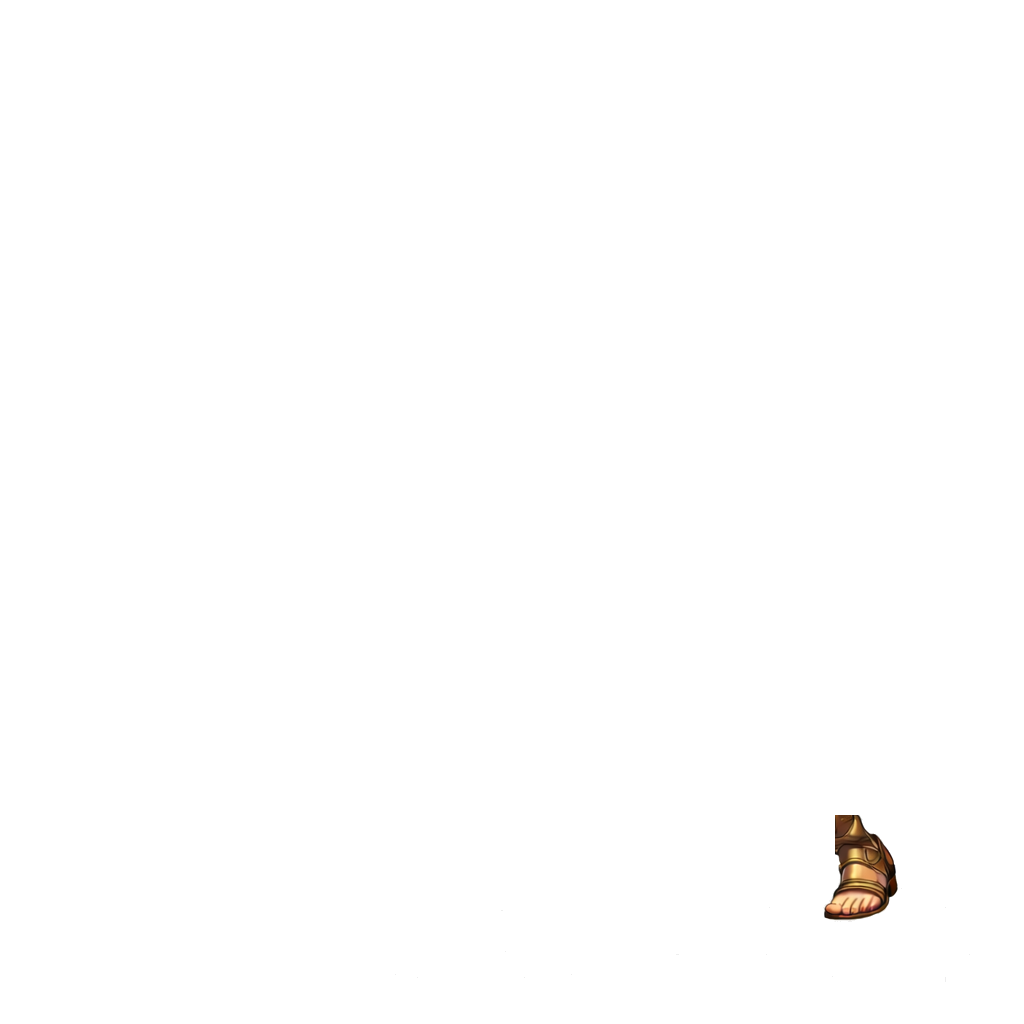
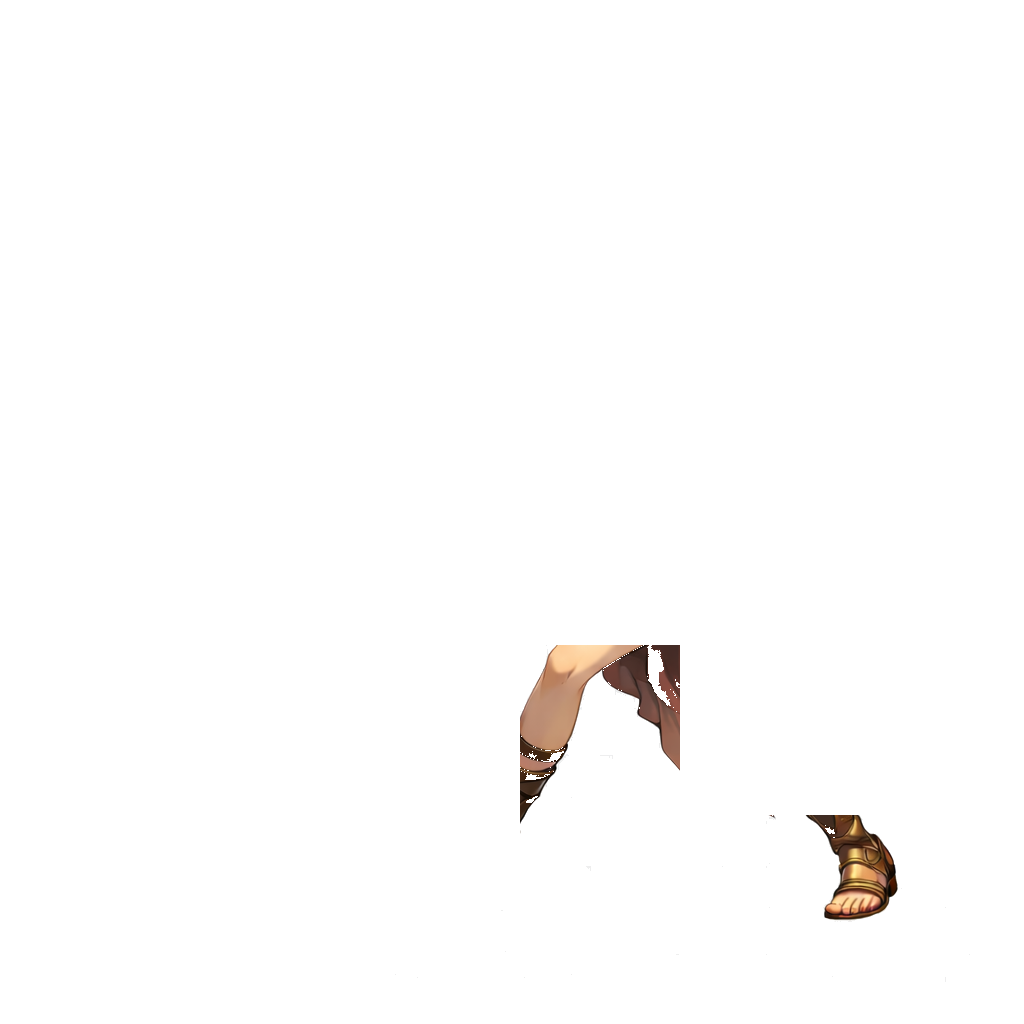
auto-commit for c3b2dfa3-1dc6-4ec2-9755-add046a0f23f

Changed region(s): [[0.5, 0.625, 0.6875, 0.8125], [0.7812, 0.7812, 0.8125, 0.8125]]

diff --git a/frontend/app/hero-viewer.tsx b/frontend/app/hero-viewer.tsx
@@ -3,6 +3,8 @@ import { View, Text, StyleSheet, Pressable, ActivityIndicator, useWindowDimensio
 import { useLocalSearchParams, useRouter } from 'expo-router';
 import { apiCall } from '../utils/api';
 import HeroIdleAnimation from '../components/ui/HeroIdleAnimation';
+import HeroHopliteIdle from '../components/ui/HeroHopliteIdle';
+import { isHopliteHero } from '../components/ui/HeroPortrait';
 import StarDisplay from '../components/ui/StarDisplay';
 import TranscendenceStars from '../components/ui/TranscendenceStars';
 import { RARITY, ELEMENTS } from '../constants/theme';
@@ -46,21 +48,25 @@ export default function HeroViewerScreen() {
   return (
     <Pressable style={s.root} onPress={() => router.back()}>
       <View style={s.scene}>
-        <HeroIdleAnimation
-          imageUri={imgUri || undefined}
-          stars={stars}
-          size={imgSize}
-          color={elemCol}
-          borderRadius={0}
-        >
-          {!imgUri && (
-            <View style={[s.ph, { width: imgSize, height: imgSize, borderColor: rarCol }]}>
-              <Text style={[s.phTxt, { color: elemCol, fontSize: imgSize * 0.35 }]}>
-                {(hero.name || hero.hero_name || '?')[0]}
-              </Text>
-            </View>
-          )}
-        </HeroIdleAnimation>
+        {isHopliteHero(hero.name || hero.hero_name) ? (
+          <HeroHopliteIdle size={imgSize} animated />
+        ) : (
+          <HeroIdleAnimation
+            imageUri={imgUri || undefined}
+            stars={stars}
+            size={imgSize}
+            color={elemCol}
+            borderRadius={0}
+          >
+            {!imgUri && (
+              <View style={[s.ph, { width: imgSize, height: imgSize, borderColor: rarCol }]}>
+                <Text style={[s.phTxt, { color: elemCol, fontSize: imgSize * 0.35 }]}>
+                  {(hero.name || hero.hero_name || '?')[0]}
+                </Text>
+              </View>
+            )}
+          </HeroIdleAnimation>
+        )}
 
         {/* Info overlay at bottom */}
         <View style={s.info}>

diff --git a/frontend/components/ui/HeroPortrait.tsx b/frontend/components/ui/HeroPortrait.tsx
@@ -1,0 +1,64 @@
+/**
+ * HeroPortrait
+ * ------------
+ * Wrapper intelligente che mostra il rig animato per eroi specifici,
+ * oppure fa fallback a un'Image normale.
+ *
+ * Mappa nome eroe → rig component. Per ora solo Greek Hoplite (mappato a "Athena").
+ */
+import React from 'react';
+import { View, Image, ImageStyle, StyleProp, ViewStyle } from 'react-native';
+import HeroHopliteIdle from './HeroHopliteIdle';
+
+// Nomi eroe che usano il rig Greek Hoplite (case-insensitive)
+const HOPLITE_HEROES = ['athena', 'hoplite', 'greek hoplite', 'spartana'];
+
+type Props = {
+  heroName?: string;
+  imageUri?: string | number | null;
+  size: number;
+  animated?: boolean;
+  /** stile applicato al fallback Image */
+  style?: StyleProp<ImageStyle>;
+  /** contenitore esterno (es. bordi, background) */
+  containerStyle?: StyleProp<ViewStyle>;
+  /** fallback quando non c'è immagine */
+  fallback?: React.ReactNode;
+};
+
+function isHopliteHero(name?: string): boolean {
+  if (!name) return false;
+  const n = name.toLowerCase().trim();
+  return HOPLITE_HEROES.some(k => n.includes(k));
+}
+
+export default function HeroPortrait({
+  heroName,
+  imageUri,
+  size,
+  animated = true,
+  style,
+  containerStyle,
+  fallback,
+}: Props) {
+  if (isHopliteHero(heroName)) {
+    return (
+      <View style={[{ width: size, height: size, overflow: 'hidden' }, containerStyle]}>
+        <HeroHopliteIdle size={size} animated={animated} />
+      </View>
+    );
+  }
+
+  if (!imageUri) {
+    return <View style={[{ width: size, height: size }, containerStyle]}>{fallback}</View>;
+  }
+
+  const source = typeof imageUri === 'string' ? { uri: imageUri } : imageUri;
+  return (
+    <View style={[{ width: size, height: size }, containerStyle]}>
+      <Image source={source} style={[{ width: size, height: size }, style]} resizeMode="cover" />
+    </View>
+  );
+}
+
+export { isHopliteHero };

diff --git a/frontend/app/(tabs)/heroes.tsx b/frontend/app/(tabs)/heroes.tsx
@@ -9,6 +9,8 @@ import Animated, { FadeInDown, FadeIn } from 'react-native-reanimated';
 import { apiCall } from '../../utils/api';
 import { useAuth } from '../../context/AuthContext';
 import AnimatedHeroPortrait from '../../components/AnimatedHeroPortrait';
+import HeroHopliteIdle from '../../components/ui/HeroHopliteIdle';
+import { isHopliteHero } from '../../components/ui/HeroPortrait';
 import ScreenHeader from '../../components/ui/ScreenHeader';
 import StarDisplay from '../../components/ui/StarDisplay';
 import TranscendenceStars from '../../components/ui/TranscendenceStars';
@@ -229,7 +231,15 @@ export default function HeroesTab() {
               colors={['rgba(20,20,60,0.9)', 'rgba(10,10,40,0.95)']}
               style={[s.detail, { borderColor: RARITY.colors[Math.min(selected.stars || selected.hero_rarity || 1, 6)] || '#888' }]}
             >
-              {selected.hero_image ? (
+              {isHopliteHero(selected.hero_name) ? (
+                <View style={[s.detImgWrap, { alignItems: 'center', justifyContent: 'center' }]}>
+                  <HeroHopliteIdle size={90} animated />
+                  <LinearGradient
+                    colors={['transparent', 'rgba(10,10,40,0.8)']}
+                    style={s.detImgOverlay}
+                  />
+                </View>
+              ) : selected.hero_image ? (
                 <View style={s.detImgWrap}>
                   <Image source={{ uri: selected.hero_image }} style={s.detImg} resizeMode="cover" />
                   <LinearGradient

diff --git a/frontend/app/hero-detail.tsx b/frontend/app/hero-detail.tsx
@@ -11,6 +11,7 @@ import GradientButton from '../components/ui/GradientButton';
 import StarDisplay from '../components/ui/StarDisplay';
 import TranscendenceStars from '../components/ui/TranscendenceStars';
 import HeroIdleAnimation from '../components/ui/HeroIdleAnimation';
+import HeroPortrait, { isHopliteHero } from '../components/ui/HeroPortrait';
 import { COLORS, RARITY, ELEMENTS, CLASSES } from '../constants/theme';
 
 const STAT_LABELS: Record<string, string> = {
@@ -136,7 +137,11 @@ export default function HeroDetailScreen() {
           >
             <View style={s.heroTop}>
               <TouchableOpacity onPress={() => router.push({ pathname: '/hero-viewer', params: { heroId: params.id as string } })} activeOpacity={0.8}>
-                {data.image ? (
+                {isHopliteHero(data.name) ? (
+                  <View style={{ width: 80, height: 80, borderRadius: 10, overflow: 'hidden', borderWidth: 2, borderColor: col + '80', backgroundColor: col + '15' }}>
+                    <HeroPortrait heroName={data.name} size={80} animated />
+                  </View>
+                ) : data.image ? (
                   <HeroIdleAnimation imageUri={data.image} stars={stars} size={80} color={col} borderRadius={10} />
                 ) : (
                   <HeroIdleAnimation stars={stars} size={80} color={col}>

diff --git a/backend/scripts/split_hoplite_rig.py b/backend/scripts/split_hoplite_rig.py
@@ -30,7 +30,7 @@ px = im.load()
 # Il personaggio è posizionato verso destra-centro (spear estesa a sinistra)
 BBOX = {
     "hair":        (470, 55,  310, 360),   # pennacchio + capelli fluenti ✓
-    "head_helmet": (515, 100, 190, 150),   # elmo dorato + viso ✓
+    "head_helmet": (505, 130, 230, 180),   # elmo + viso (ampliato verso basso e lati) ✓
     "torso":       (515, 225, 250, 320),   # petto + addome + cintura (ampliato)
     "spear_arm":   (0,   315, 610, 150),   # braccio sinistro + lancia intera ✓
     "shield_arm":  (680, 340, 345, 475),   # braccio destro + scudo rotondo (esteso fino al bordo)
@@ -59,16 +59,40 @@ def in_bbox(x: int, y: int, bbox) -> bool:
 
 
 def is_hair_color(r: int, g: int, b: int) -> bool:
-    """Rileva rosso/bruno dei capelli e del pennacchio (distinguendoli dal dorato dell'elmo)."""
+    """Rileva rosso/bruno di capelli/pennacchio. Distingue da oro, pelle e pelle in ombra."""
     if r < 60:
         return False
     if r > 245 and g > 245 and b > 245:
-        return False  # highlight bianco puro
+        return False
+    if not (r > g and g > b):
+        return False
+    # pelle ha b alto (>135) o b/r alto (>0.58) anche in ombra
+    if b > 135:
+        return False
+    br_ratio = b / max(1, r)
+    if br_ratio >= 0.58:
+        return False
+    # oro elmo ha g molto vicino a r (r-g piccolo vs g-b grande).
+    # capelli: r-g abbastanza grande rispetto a g-b
+    rg = r - g
+    gb = g - b
+    return rg >= gb * 0.75 and rg >= 15
+
+
+def is_skirt_cloth(r: int, g: int, b: int) -> bool:
+    """Rileva il tessuto rosso-arancio della gonna. Distingue da pelle e bronzo dei sandali/greave."""
+    if r < 50:
+        return False
+    if not (r > g and g >= b):
+        return False
+    # gonna satura: g/r basso (<0.55), b basso (<120)
     gr = g / max(1, r)
-    br = b / max(1, r)
-    # capelli/pennacchio: dominante rosso, g/r basso (<0.70), b/r molto basso (<0.62)
-    # oro elmo ha g/r ~0.75-0.85, pelle g/r ~0.82-0.92
-    return gr < 0.70 and br < 0.62
+    if gr >= 0.55:
+        return False  # oro/bronzo/pelle hanno g/r alto
+    if b > 120:
+        return False  # pelle ha b alto
+    # saturazione alta (arancione acceso)
+    return True
 
 
 def dist_to_bbox(x: int, y: int, bbox) -> float:
@@ -102,12 +126,34 @@ def main():
                 salvaged += 1
                 continue
 
-            if "hair" in candidates and len(candidates) > 1:
+            if "hair" in candidates and "head_helmet" in candidates:
+                # Conflitto hair vs head_helmet: colore dominante decide
+                if is_hair_color(r, g, b):
+                    winner = "hair"
+                else:
+                    # Non-hair in zona testa → head_helmet (elmo/viso)
+                    non_hair = [n for n in candidates if n != "hair"]
+                    winner = max(non_hair, key=lambda n: PRIORITY[n])
+            elif "hair" in candidates and len(candidates) > 1:
+                # Altri overlap con hair: solo colore decide
                 if is_hair_color(r, g, b):
                     winner = "hair"
                 else:
                     non_hair = [n for n in candidates if n != "hair"]
                     winner = max(non_hair, key=lambda n: PRIORITY[n])
+            elif "legs" in candidates and "skirt" in candidates:
+                # Conflitto legs vs skirt: colore dominante decide
+                if is_skirt_cloth(r, g, b):
+                    winner = "skirt"
+                else:
+                    # Pelle/bronzo/sandalo → gambe
+                    winner = "legs"
+                    # se anche torso/shield_arm nell'overlap, mantieni priorità per quelli
+                    other = [n for n in candidates if n not in ("legs", "skirt")]
+                    if other:
+                        top_other = max(other, key=lambda n: PRIORITY[n])
+                        if PRIORITY[top_other] > PRIORITY["legs"]:
+                            winner = top_other
             else:
                 winner = max(candidates, key=lambda n: PRIORITY[n])
 

diff --git a/test_result.md b/test_result.md
@@ -418,3 +418,5 @@ agent_communication:
     message: "NEW ENDPOINTS TESTING COMPLETE: All 13 new backend systems tested and working correctly. VIP System, Friends System, Multi-Server System, Shop System, Mail System, Battle Pass System, Rankings System, Cosmetics/Aura System, Territory Conquest System, Plaza Chat System, Raid System, Exclusive Items System, and Bot System all return 200 with valid JSON data. Minor note: Some endpoint URLs in review request differ from actual implementation (e.g., /api/vip vs /api/vip/status, /api/cosmetics vs /api/cosmetics/auras, /api/territory/map vs /api/territories, /api/exclusive-items vs /api/exclusive/items) but functionality is complete and working."
   - agent: "testing"
     message: "REGRESSION TEST AFTER REFACTORING COMPLETE: Tested all 23 endpoints specified in review request after major backend refactoring from monolithic game_systems.py (1477 lines) to modular /routes/ structure. All endpoints return 200 status with valid JSON responses. 100% success rate (22/22 tests passed). Backend refactoring was successful with zero regressions detected. All major game systems remain fully functional."
+  - agent: "main"
+    message: "GREEK HOPLITE RIG COMPLETE: Implemented frontend-only animated rig for Greek Hoplite character. (1) Split combat_base.png into 7 layer PNGs via /app/backend/scripts/split_hoplite_rig.py using bbox + hair/skirt color classifiers — pixel-perfect recomposition verified. (2) Created HeroHopliteIdle.tsx using react-native-reanimated: 2500ms breath cycle (torso scaleY), hair sway, shield micro-osc, fixed legs. (3) Refinement pass: fixed hair vs head_helmet separation (skin b/r ratio filter) and legs vs skirt separation (saturation threshold) — head_helmet pixels went from 2567→7816, legs from 5414→18247. (4) Integrated via HeroPortrait wrapper (matches 'athena', 'hoplite', 'spartana' names) in hero-detail.tsx, hero-viewer.tsx, and (tabs)/heroes.tsx. Athena hero in DB now renders with Hoplite rig. Preview page at /hoplite-rig-preview. No backend changes required."
